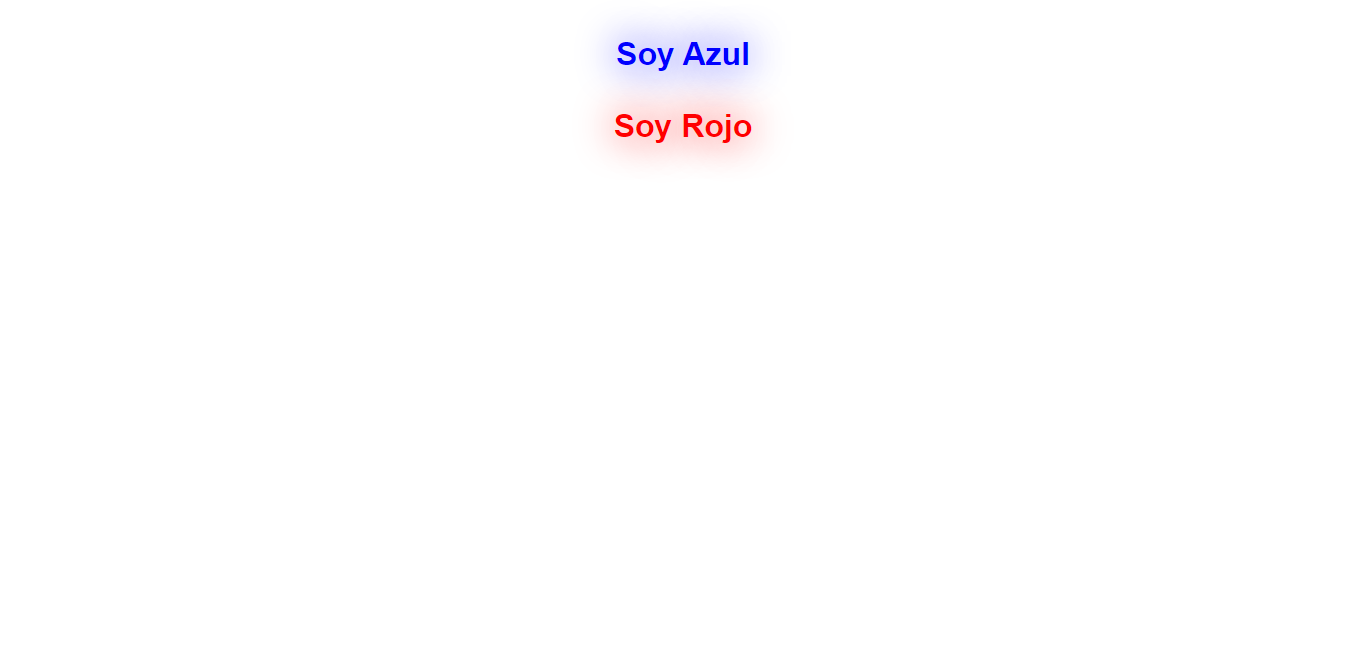
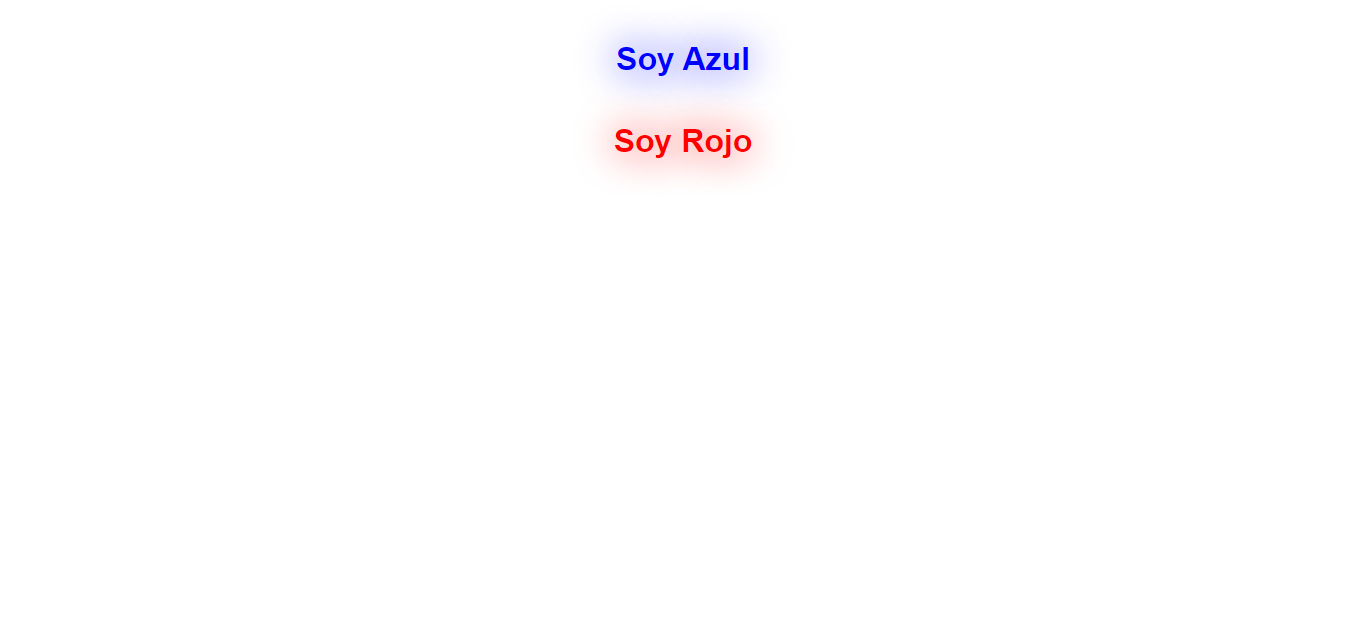
modificaciones punto 4 y punto 5 finalizado

Changed region(s): [[0.4305, 0.156, 0.5534, 0.2496], [0.4305, 0.0624, 0.5534, 0.1248]]

diff --git a/punto-5/index.html b/punto-5/index.html
@@ -1,0 +1,24 @@
+<!DOCTYPE html>
+<html lang="en">
+<head>
+    <meta charset="UTF-8">
+    <meta name="viewport" content="width=device-width, initial-scale=1.0">
+    <link rel="stylesheet" href="styles/styles.css">
+    <title>Page-5</title>
+</head>
+<body>
+    <p>
+        <span>En el momoneto en el que</span>
+        <u class="underlined-1">entiendo verdaderamente</u>
+        <span>a mi</span>
+        <strong class="line-1">enemigo,</strong>
+        <span>en el momento en que le </span>
+        <span class="two-under-over-lines">entiendo</span>
+        <span>lo suficientemente bien como para</span>
+        <strong class="line-2">derrotarle</strong>
+        <span>, entonces, en ese preciso instante,</span>
+        <b>tambien le </b>
+        <b class="underlined-2">quiero</b>
+    </p>
+</body>
+</html>

diff --git a/punto-4/index.html b/punto-4/index.html
@@ -3,14 +3,14 @@
 <head>
     <meta charset="UTF-8">
     <meta name="viewport" content="width=device-width, initial-scale=1.0">
-    <link rel="stylesheet" href="styles/stulys.css">
+    <link rel="stylesheet" href="styles/styles.css">
     <title>Page-4</title>
 </head>
 <body>
-    <h1 class="text__blue">
+    <h1 class="title__blue">
         Soy Azul
     </h1>
-    <h1 class="text__red">
+    <h1 class="title__red">
         Soy Rojo
     </h1>
 </body>

diff --git a/punto-5/styles/styles.css b/punto-5/styles/styles.css
@@ -1,0 +1,36 @@
+p {
+    margin: 100px;
+}
+
+p span {
+    font-size: 32px;
+}
+
+.underlined-1 {
+    color: green;
+    font-size: 32px;
+}
+
+.line-1 {
+    color: red;
+    font-size: 32px;
+}
+
+.two-under-over-lines {
+    text-decoration: underline overline;
+} 
+
+.line-2 {
+    font-size: 70px;
+}
+
+b {
+    color: blue;
+    font-size: 35px;
+}
+
+.underlined-2 {
+    color: red;
+    font-size: 35px;
+    text-decoration: underline;
+}

diff --git a/punto-4/styles/styles.css b/punto-4/styles/styles.css
@@ -1,16 +1,16 @@
 h1 {
     text-align: center;
-    line-height: 50px;
+    line-height: 60px;
     font-family: Arial
     
 }
 
-.text__blue {
+.title__blue {
     color: blue;
     text-shadow: 0px 0px 40px blue;
 }
 
-.text__red {
+.title__red {
     color: red;
     text-shadow: 0px 0px 40px red;
 }

diff --git a/README.md b/README.md
@@ -19,6 +19,7 @@
 <img src="./public/images/punto-4.png" alt="punto 4">
 
 <h2>Punto 5: Parrafo</h2>
+<img src="./public/images/punto-5.png"  alt="punto 5">
 
 <h2>Punto 6: Links</h2>
 
